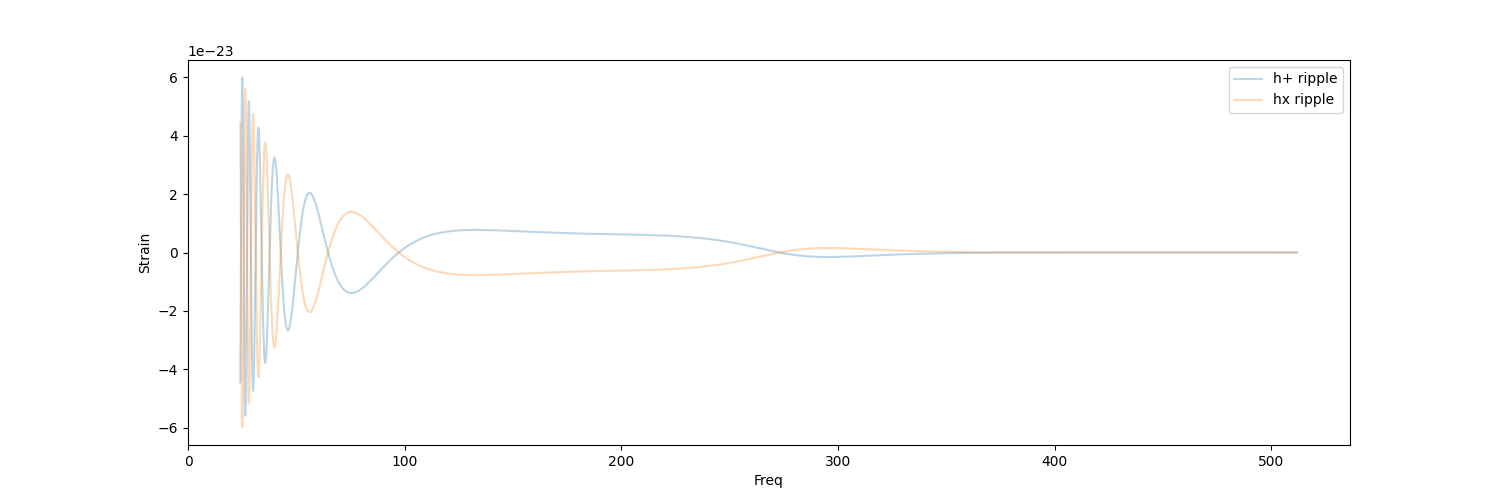
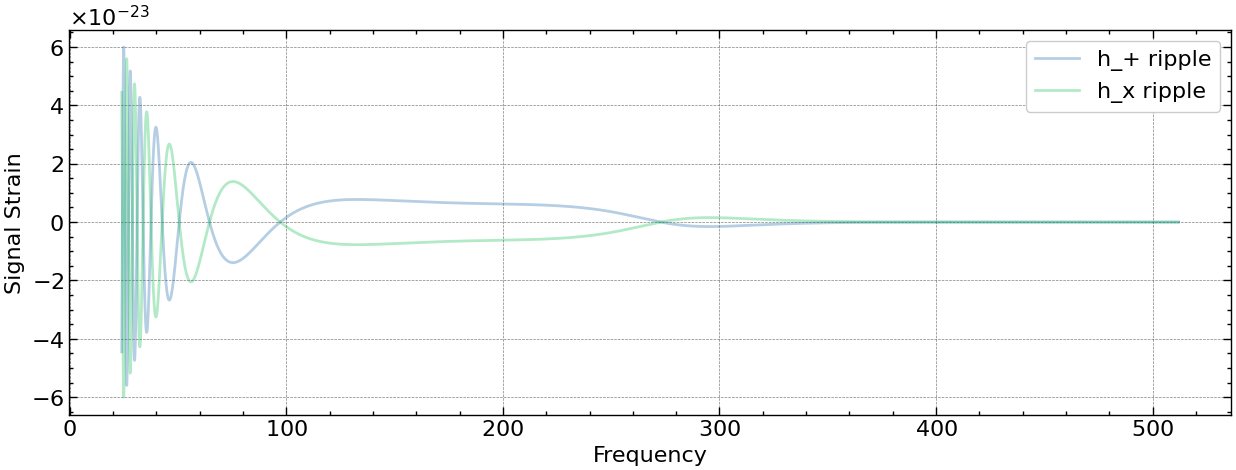
Waveform generator refactor

diff --git a/data_waveform.py b/data_waveform.py
@@ -7,72 +7,64 @@ Created on Thu Jun 14 2023
 """
 
 # %% Section 0 - Library import
-# JAX related import
+# Module - jax related import
 import jax.numpy as jnp
-from jax import grad, vmap
-# RIPPLE related import
+# Module - ripple related import
 from ripple.waveforms import IMRPhenomXAS
 from ripple import ms_to_Mc_eta
-# Other import
-from functools import partial
-from math import pi
+# Module - other import
 import matplotlib.pyplot as plt
 import scienceplots
 
-# %% Section 1 - Waveform param repo
-theta = (
-    (36.0, 29.0),   # Mass: in unit of solar masses
-    (0, 0),         # Spin: no spin
-    (0.0, 0.0),     # Time of coalescence in seconds, and Time of coalescence
-    440,            # Distance to source in Mpc
-    (0.0, 0.2),     # Inclination angle, and Polarization angle
-)
+# %% Section 0 - Plotter style customization
+plt.style.use(["science", "notebook", "grid"])
 
-# Invoke ms_to_Mc_eta
-Mc, eta = ms_to_Mc_eta(jnp.array([theta[0][0], theta[0][1]]))
+# %% Section 1 - Waveform generation function
+def data_ripple(theta):
+    # Waveform generator
+    # Invoke ms_to_Mc_eta method
+    theta_mc, theta_eta = ms_to_Mc_eta(jnp.array([theta[0][0], theta[0][1]]))
+    # Intermidiate calculations - ripple
+    theta_ripple = jnp.array(
+        [
+            theta_mc,             
+            theta_eta,            
+            theta[1][0],    
+            theta[1][1],    
+            theta[3],       
+            theta[2][0],    
+            theta[2][1],    
+            theta[4][0], 
+            theta[4][1],
+        ]
+    )
+    # Signal freq and ref freq
+    freq_sig, freq_ref = (
+        jnp.arange(theta[5], theta[6], theta[7]),
+        theta[5],
+    )
+    # Strain signal generator
+    strain_plus, strain_cros = IMRPhenomXAS.gen_IMRPhenomXAS_polar(freq_sig, theta_ripple, freq_ref)
+    
+    # Plotter
+    # Plot init
+    plt.figure(figsize=(15, 5))
+    # Plotting
+    plt.plot(freq_sig, strain_plus.real, label="h_+ ripple", alpha=0.3)
+    plt.plot(freq_sig, strain_cros.imag, label="h_x ripple", alpha=0.3)
+    # Plot customizer
+    plt.legend()
+    plt.xlabel("Frequency")
+    plt.ylabel("Signal Strain")
+    plt.savefig("./media/fig_01_ripple_waveform.png")
+    plt.close()
 
-# %% Section 2 - Ripple
-# Ripple
-theta_ripple = jnp.array(
-    [
-        Mc,             
-        eta,            
-        theta[1][0],    
-        theta[1][1],    
-        theta[3],       
-        theta[2][0],    
-        theta[2][1],    
-        theta[4][0], 
-        theta[4][1],
-    ]
-)
-
-# %% Section 3 - Additional param
-# Freq grid generator
-theta_grid = (
-    24,         # Grid length
-    512,        # Grid depth
-    0.01,       # Grid step
-)
-
-# Signal freq and ref
-f_sig, f_ref = (
-    jnp.arange(theta_grid[0], theta_grid[1], theta_grid[2]),
-    theta_grid[0],
-)
-
-# %% Section 4 - Waveform generator
-hp_ripple, hc_ripple = IMRPhenomXAS.gen_IMRPhenomXAS_polar(f_sig, theta_ripple, f_ref)
-
-# %% Section 5 - Waveform plotter
-# Plot init
-plt.figure(figsize=(15, 5))
-# Plotting
-plt.plot(f_sig, hp_ripple.real, label="h+ ripple", alpha=0.3)
-plt.plot(f_sig, hc_ripple.imag, label="hx ripple", alpha=0.3)
-# Plot customizer
-plt.legend()
-plt.xlabel("Freq")
-plt.ylabel("Strain")
-plt.savefig("./media/fig_01_ripple_waveform.png")
-plt.close()
+    # Function result gather
+    result = (
+        freq_sig,
+        freq_ref,
+        strain_plus,
+        strain_cros,
+    )
+    # Function return
+    return result

diff --git a/main.py b/main.py
@@ -7,3 +7,30 @@ Created on Thu Jun 14 2023
 """
 
 # %% Section 0 - Library import
+from data_waveform import data_ripple
+
+# %% Section 1 - Waveform generator
+# Define waveform generation parameters
+theta_waveform_gen = (
+    (36.0, 29.0),   # Mass: in units of solar masses
+    (0, 0),         # Spin: no spin
+    (0.0, 0.0),     # Time of coalescence in seconds, and Time of coalescence
+    440,            # Distance to source in Mpc
+    (0.0, 0.2),     # Inclination angle, and Polarization angle
+)
+# Define waveform plotter parameters
+theta_waveform_plot = (
+    24,         # 
+    512,        # 
+    0.01,       # 
+)
+# Combined waveform parameters
+theta_waveform = theta_waveform_gen + theta_waveform_plot
+# Call ripple waveform generator and plotter
+data_ripple(theta_waveform)
+
+# %% Section 2 - Fisher matrix calculator
+
+
+# %% Section 3 - Probability density
+
